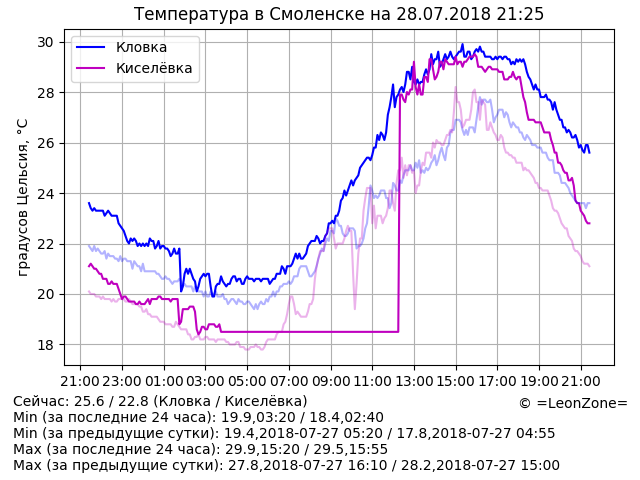
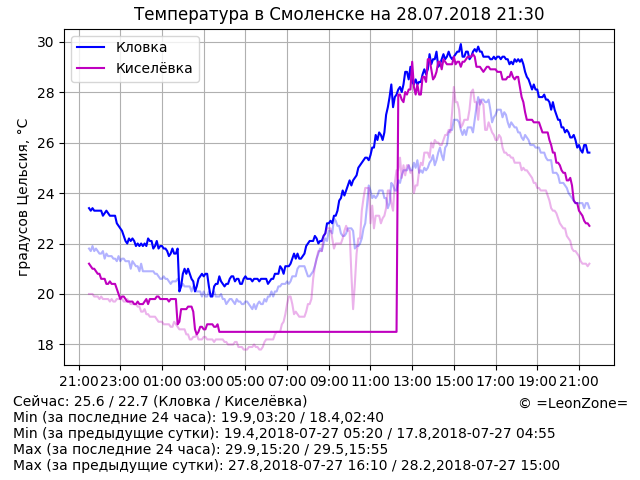
Update data

diff --git a/index.html b/index.html
@@ -14,7 +14,7 @@
 	<p align="center"><script>document.write("<img src=\"graph.png?rnd="+Math.random()+"\" alt=\"Температура в Смоленске\" align=\"middle\" width=\"640\" height=\"480\" />")</script>
 	<p hidden="true">
 <!-- textinfo -->
-Сейчас: 25.6 / 22.8 (Кловка / Киселёвка)
+Сейчас: 25.6 / 22.7 (Кловка / Киселёвка)
 Min (за последние 24 часа): 19.9,03:20 / 18.4,02:40
 Min (за предыдущие сутки): 19.4,2018-07-27 05:20 / 17.8,2018-07-27 04:55
 Max (за последние 24 часа): 29.9,15:20 / 29.5,15:55
